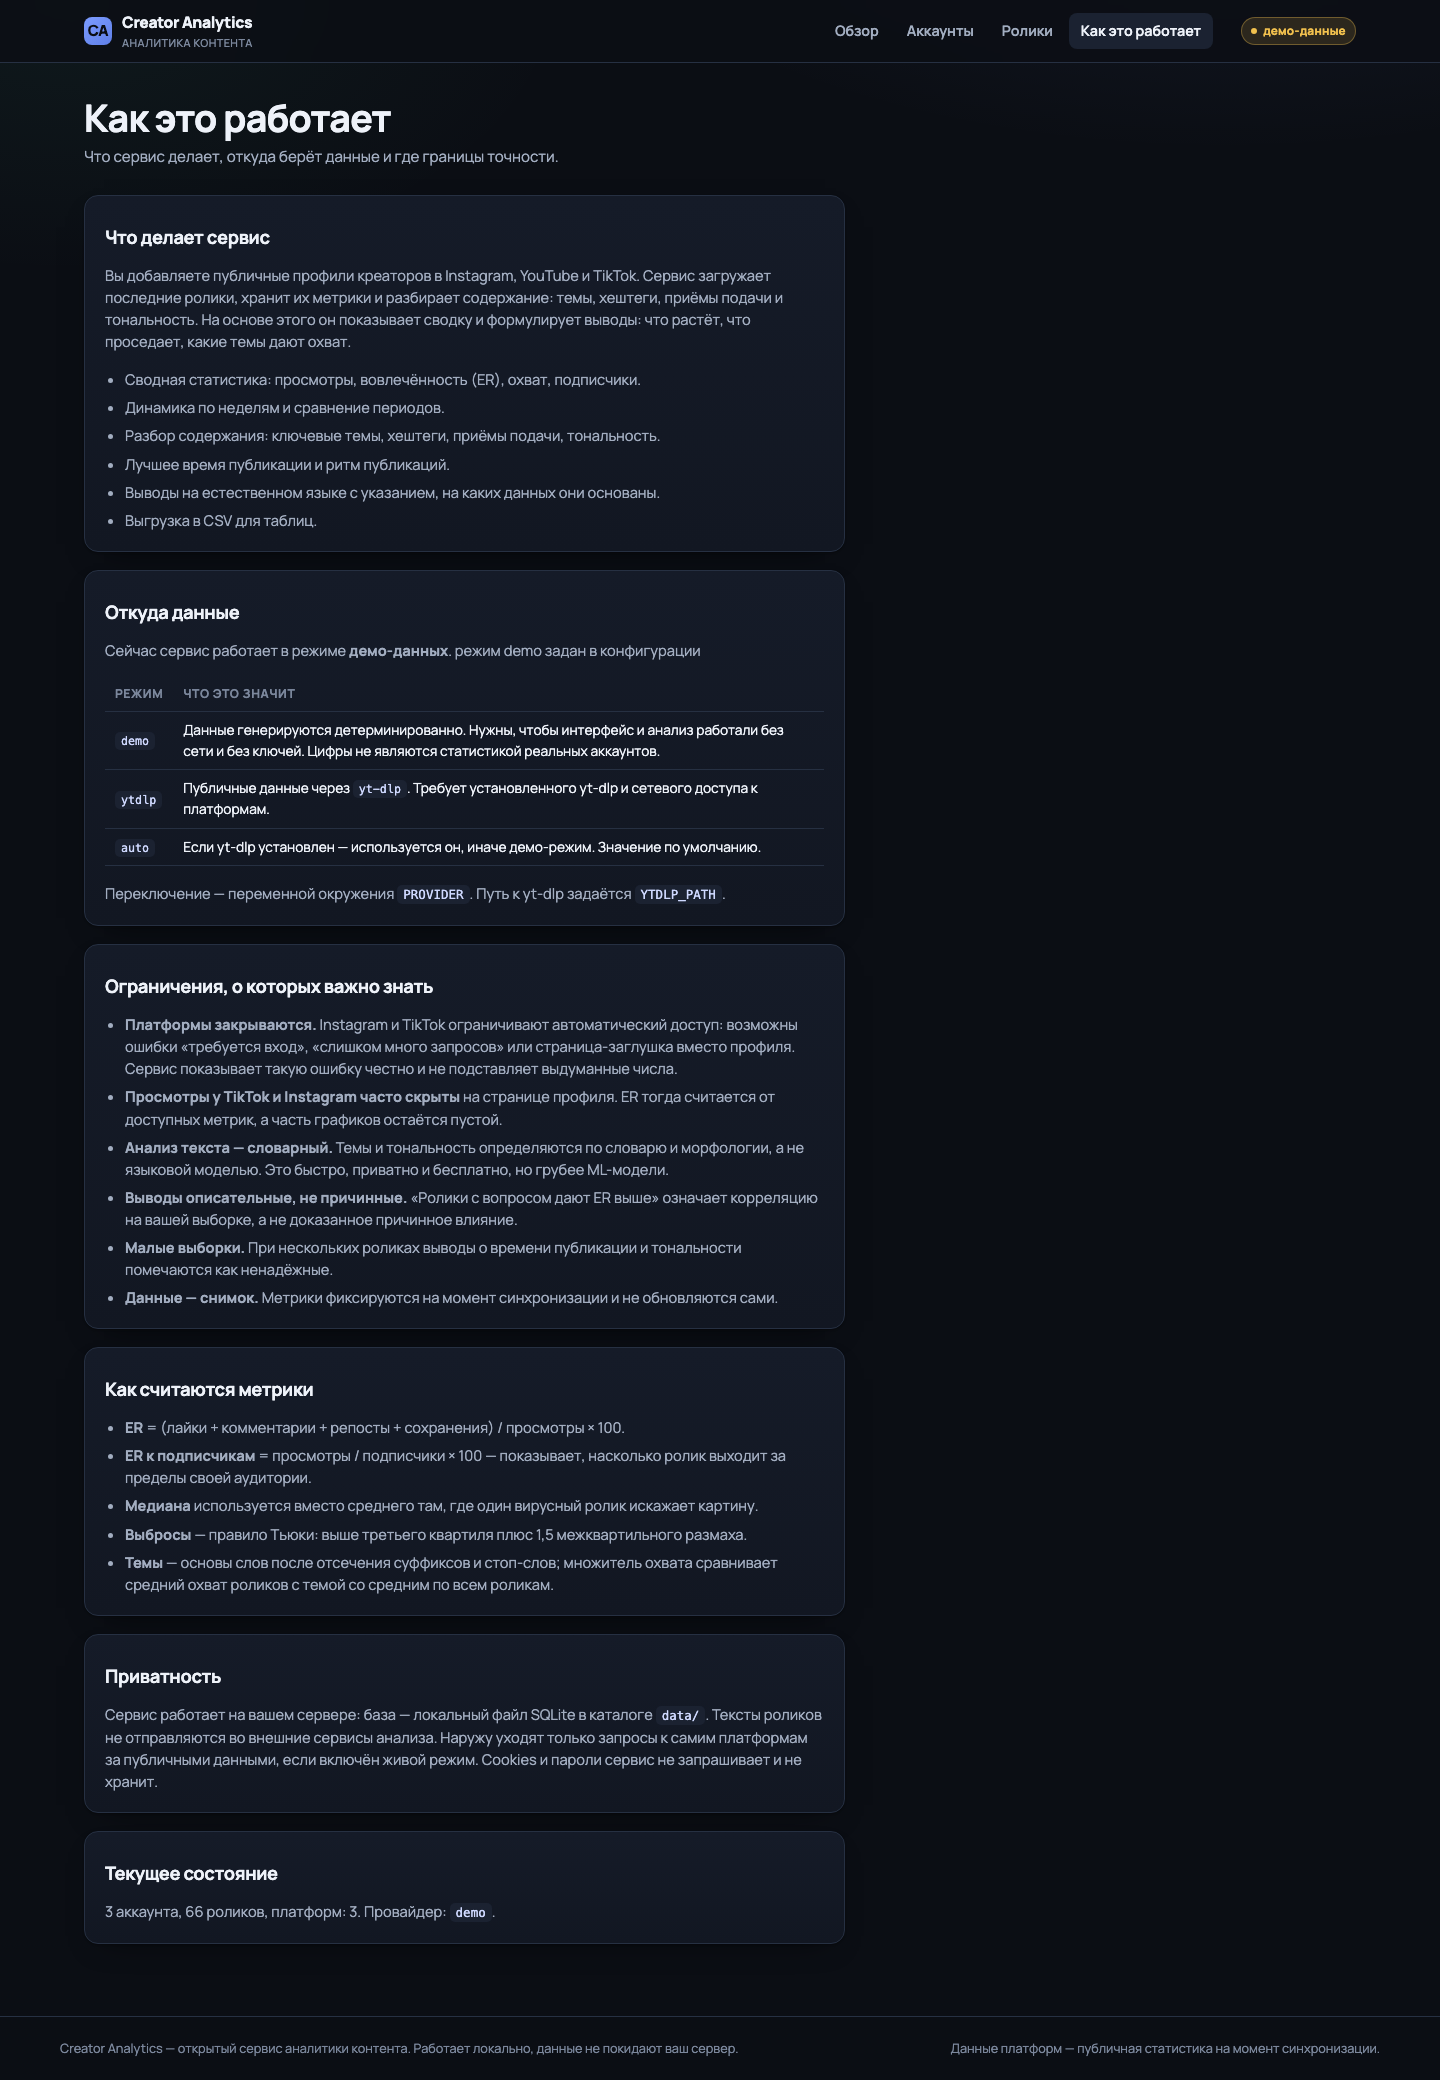
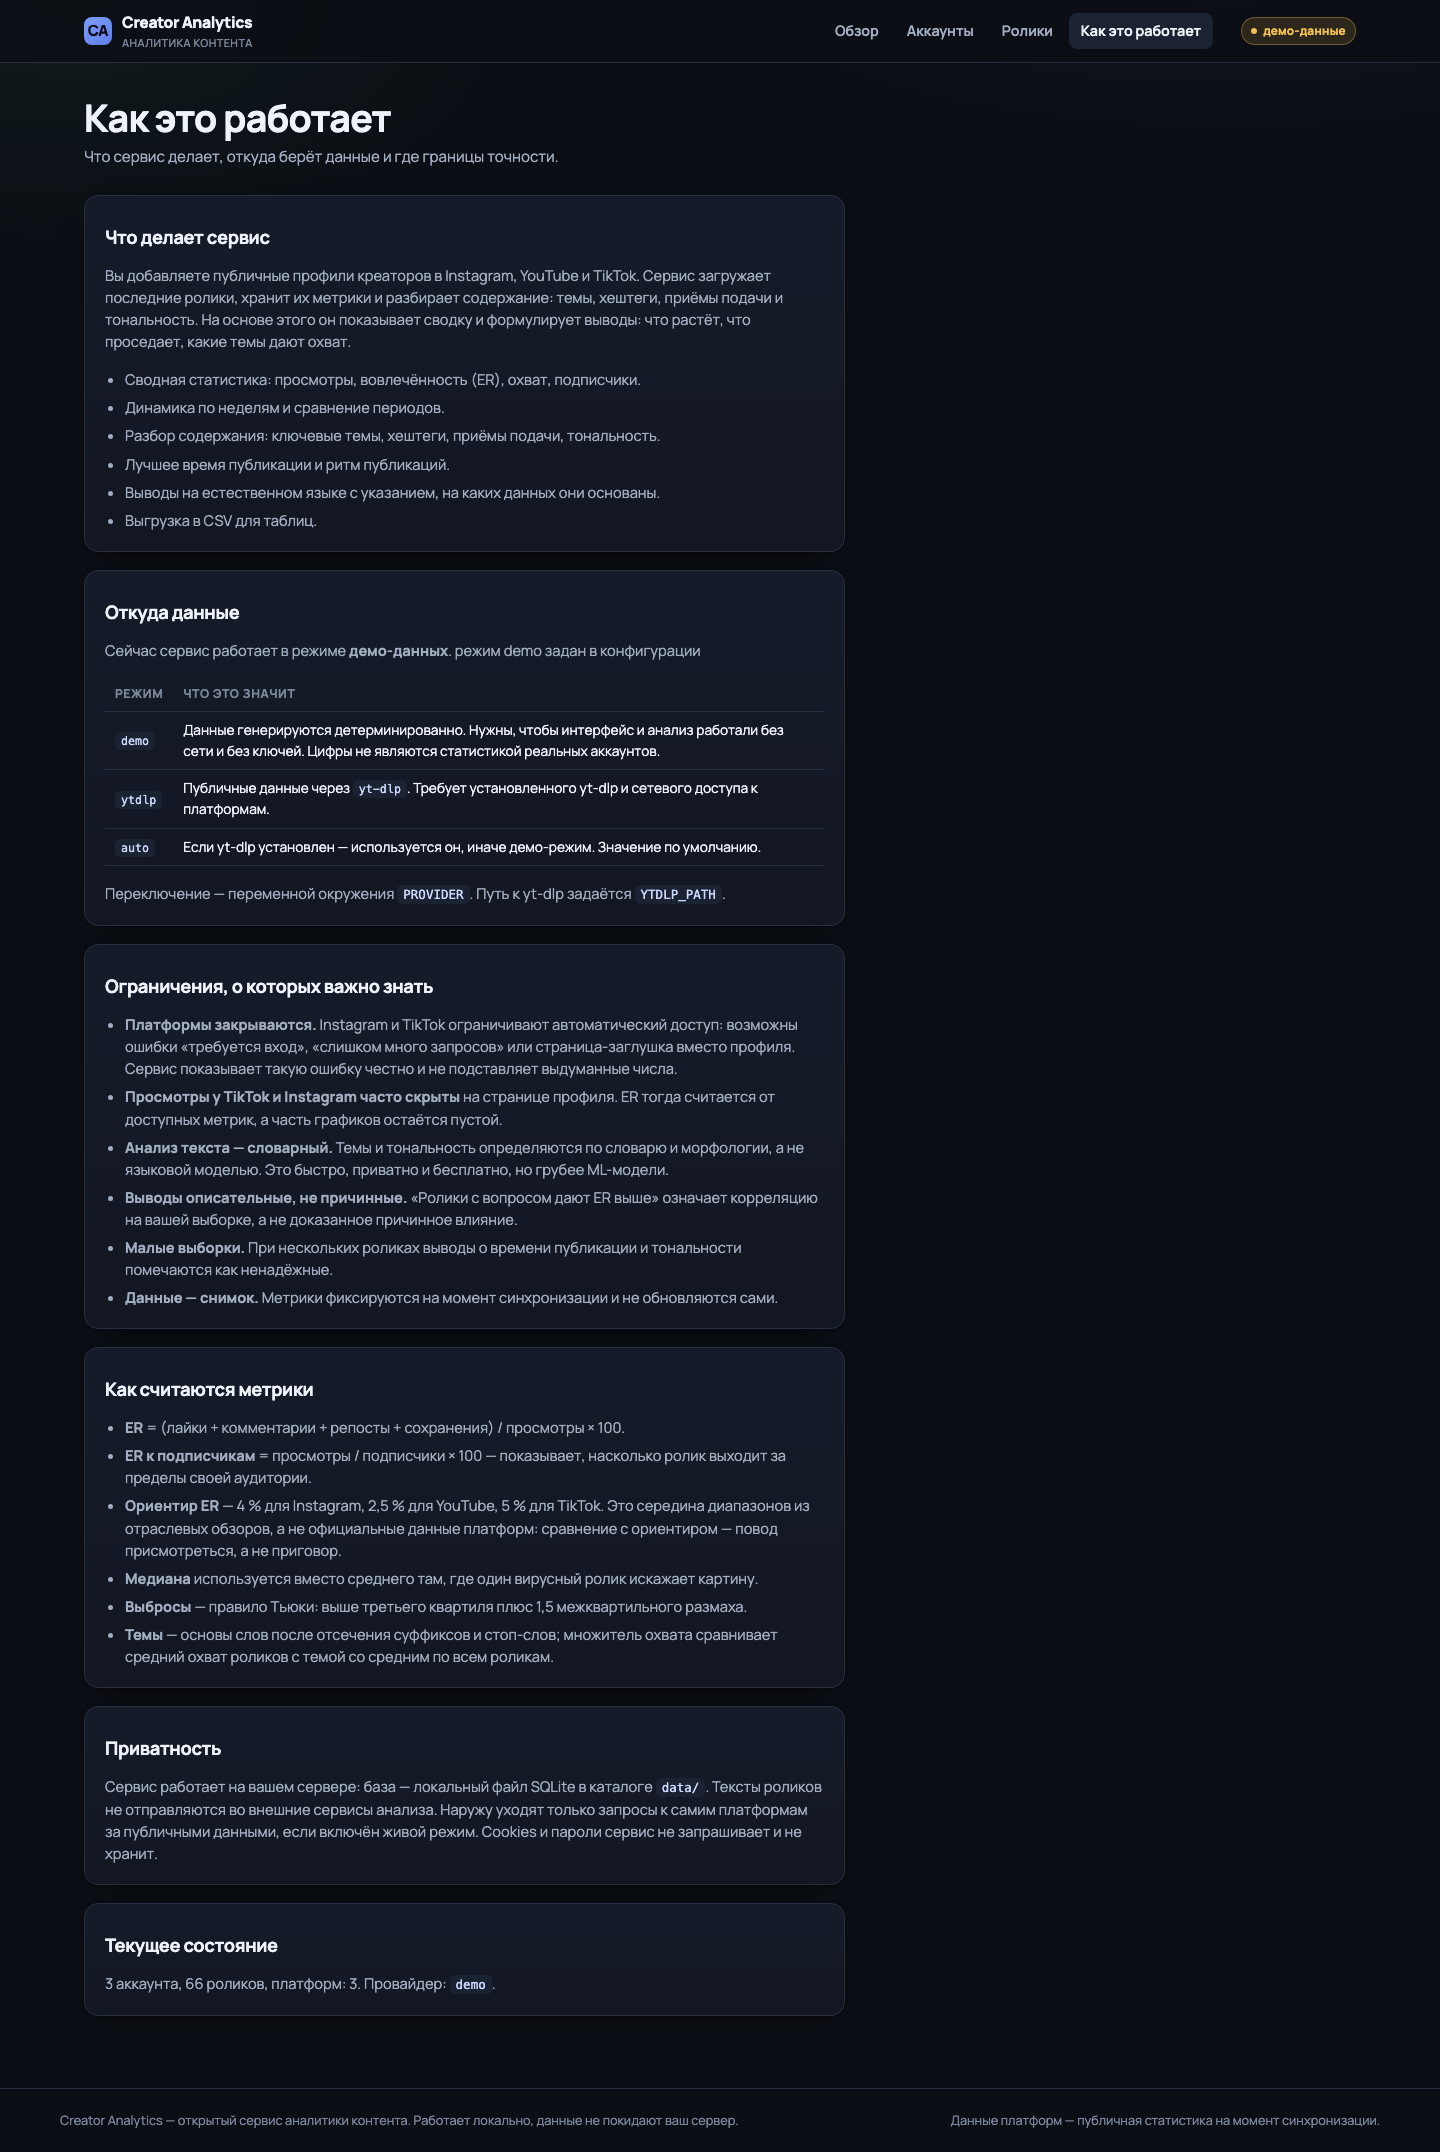
docs: объяснить происхождение ориентиров ER
Правила сравнивали ER аккаунта с числами 4 / 2,5 / 5 %, которые были зашиты в
код и подавались пользователю как «типичное значение» без источника. Числа
рабочие, но их происхождение нигде не объяснялось — для утверждения, на котором
строится предупреждение, это плохо.

Что сделано:
- ориентиры вынесены в `ER_BENCHMARKS` в `src/analysis/metrics.mjs` с
  комментарием, откуда взяты диапазоны и почему это не официальные данные;
- формулировка в выводах: «ориентир» вместо «типичное значение»;
- ориентиры и оговорка описаны в ТЗ, плане и на странице «Как это работает»;
- тесты фиксируют значения и то, что предупреждение ссылается на ориентир.

Скриншоты пересняты: на странице «Как это работает» появился абзац об
ориентирах.

Changed region(s): [[0.0625, 0.0, 0.5625, 0.9375], [0.875, 0.0, 0.9375, 0.0312], [0.75, 0.0, 0.8125, 0.0312]]

diff --git a/docs/TZ.md b/docs/TZ.md
@@ -130,6 +130,17 @@
   `APP_TIME_ZONE`; на выборке меньше трёх роликов помечается как ненадёжное.
 - **Множитель темы** — средний охват роликов с темой / средний охват всех роликов.
 
+### Ориентиры ER по платформам
+
+Правила сравнивают ER аккаунта с ориентиром: Instagram — 4 %, YouTube — 2,5 %,
+TikTok — 5 %. Это **не официальные данные платформ и не наше исследование**:
+взята середина диапазонов, которые из года в год называют отраслевые
+бенчмарк-отчёты (Instagram ≈ 3–6 %, YouTube ≈ 2–4 %, TikTok ≈ 4–8 %). Ориентир
+нужен как грубая система координат, а не как истина: «ER 0,8 % при ориентире
+4 %» — повод разобраться, «ER 6 %» — норма. Значения вынесены в
+`ER_BENCHMARKS` в `src/analysis/metrics.mjs`, чтобы их можно было заменить
+своими.
+
 Часовой пояс обязателен: без него «вечерний прайм-тайм» уезжает на несколько
 часов, и рекомендация становится вредной.
 

diff --git a/docs/PLAN.md b/docs/PLAN.md
@@ -54,6 +54,11 @@
 Приёмы подачи распознаются по основам слов, а не подстрокой: иначе
 «лайкозависимость» считалась призывом «лайк».
 
+Ориентиры ER по платформам (4 / 2,5 / 5 %) вынесены в `ER_BENCHMARKS` и
+подписаны в ТЗ как середина отраслевых диапазонов, а не как официальные данные
+платформ: это грубая система координат, и пользователь может подставить свои
+цифры.
+
 ## Этап 4. Интерфейс
 
 Серверная отрисовка через шаблонный тег `html` с автоматическим экранированием.
